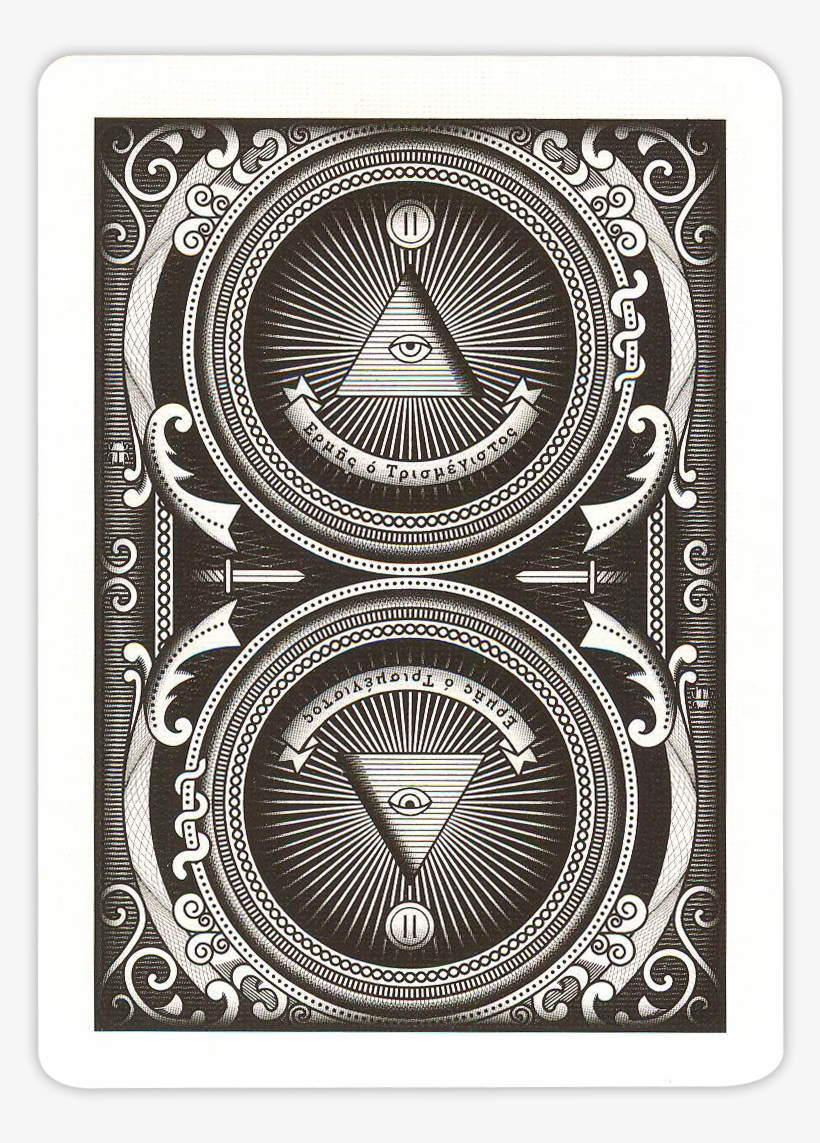
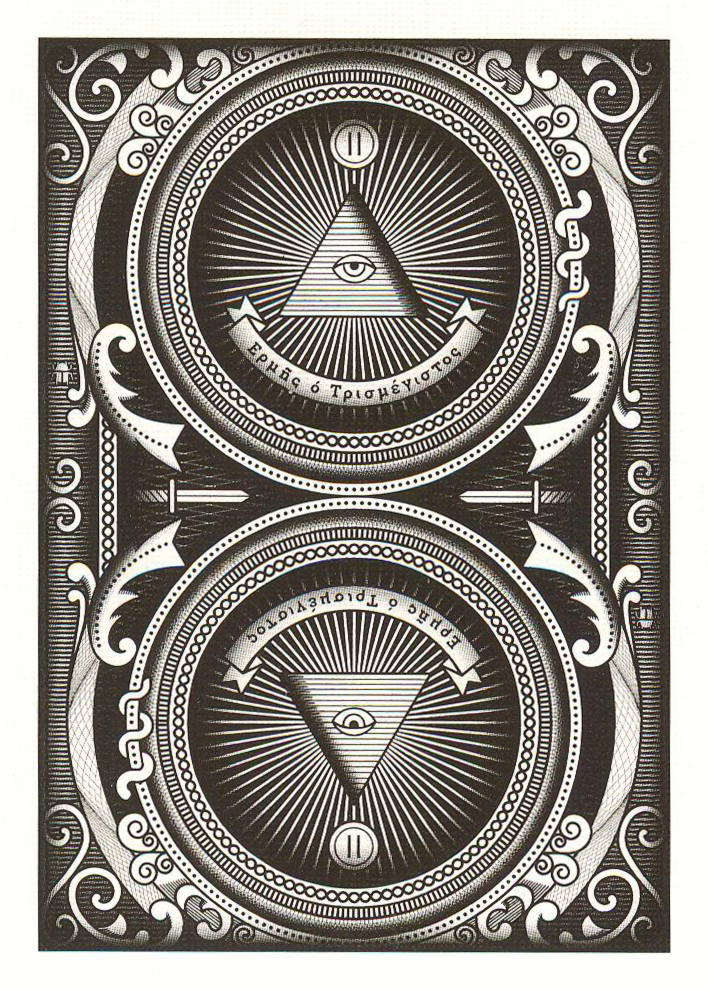
change card/bg images

diff --git a/css/style.css b/css/style.css
@@ -1,5 +1,5 @@
 body {
-  background-image: url("../images/backgrounds/blue-felt.jpg");
+  background-image: url("../images/backgrounds/black-felt.png");
   background-size: cover;
 }
 
@@ -15,9 +15,11 @@ body {
   width: 4.0em;
   height: 5.5em;
   /* Add a default background color and border. */
-  background-color: #fff;
+  background-color: rgb(242, 239, 217);
+  border-color: rgb(41, 41, 41);
+  border-style: solid;
+  border-width: 0.015em;
   border-radius: 0.20em;
-  border: 1px solid #c3c3c3;
   /* Scale and set the background settings. */
   background-repeat: no-repeat;
   background-position: center center;
@@ -47,8 +49,8 @@ body {
     box-shadow: 4px 4px 5px 0 rgba(41, 41, 41, 0.75); }
   .card.outline {
     background-image: none;
-    background-color: rgba(195, 195, 195, 0.75);
-    border: 0.05em solid rgb(18,34,99); }
+    background-color: rgba(1, 1, 1, 0); 
+    border: none; }
 
   .card.back {
     background-image: url("../images/backs/blue.svg"); }
@@ -72,12 +74,6 @@ body {
     background-color: rgba(1,1,1,0);
     border: none; }
 
-  .card.back-casino {
-    background-image: url("../images/altbacks/casino.png");
-    background-size: cover;
-    background-color: rgba(1,1,1,0);
-    border: none; }
-
   .card.back-celtic {
     background-image: url("../images/altbacks/celtic.png");
     background-size: cover;
@@ -91,7 +87,7 @@ body {
     border: none; }
 
   .card.back-elf {
-    background-image: url("../images/altbacks/elf.jpg");
+    background-image: url("../images/altbacks/elf.png");
     background-size: cover;
     background-color: rgba(1,1,1,0);
     border: none; }
@@ -126,14 +122,8 @@ body {
     background-color: rgba(1,1,1,0);
     border: none; }
 
-  .card.back-lighthouse {
-    background-image: url("../images/altbacks/lighthouse.png");
-    background-size: cover;
-    background-color: rgba(1,1,1,0);
-    border: none; }
-
   .card.back-monkey {
-    background-image: url("../images/altbacks/monkey.jpg"); 
+    background-image: url("../images/altbacks/monkey.png"); 
     background-size: cover;
     background-color: rgba(1,1,1,0);
     border: none; }
@@ -144,11 +134,24 @@ body {
     background-color: rgba(1,1,1,0);
     border: none; }
 
-  .card.back-ship {
-    background-image: url("../images/altbacks/ship.png");
+  .card.back-rabbit {
+    background-image: url("../images/altbacks/pirate.png");
     background-size: cover;
     background-color: rgba(1,1,1,0);
     border: none; }
+
+  .card.back-roger {
+    background-image: url("../images/altbacks/roger.png");
+    background-size: cover;
+    background-color: rgba(1,1,1,0);
+    border: none; }
+
+  .card.back-ship {
+    background-image: url("../images/altbacks/ship.png");
+    background-size: cover;
+    border-color: rgb(48,39,43);
+    border-style: solid;
+    border-width: 0.015em; }
 
   .card.back-silverback {
     background-image: url("../images/altbacks/silverback.png");
@@ -163,7 +166,13 @@ body {
     border: none; }
 
   .card.back-tree {
-    background-image: url("../images/altbacks/tree.jpg");
+    background-image: url("../images/altbacks/tree.png");
+    background-size: cover;
+    background-color: rgba(1,1,1,0);
+    border: none; }
+
+  .card.back-tree-black {
+    background-image: url("../images/altbacks/tree-black.png");
     background-size: cover;
     background-color: rgba(1,1,1,0);
     border: none; }

diff --git a/js/main.js b/js/main.js
@@ -48,9 +48,9 @@ function dealCards() {
         }
     }
     p1deck.classList.replace('outline', 'shadow-medium');
-    p1deck.classList.add('back-ship');
+    p1deck.classList.add('back-roger');
     p2deck.classList.replace('outline', 'shadow-medium');
-    p2deck.classList.add('back-ship');
+    p2deck.classList.add('back-roger');
     dealButton.classList.add('hidden');
     playButton.classList.remove('hidden');
 };
@@ -68,22 +68,24 @@ function playCards() {
         p2Cards.push(p2Flipped[0]);
         p2flip.classList.replace('outline', p2Flipped);
     }
-    // compareCards();
+    compareCards();
     render();
 };
 
 function compareCards() {
     if (p1Flipped[0] > p2Flipped[0]) {
         console.log(true);
-    } else {
+    } else if (p1Flipped[0] < p2Flipped[0]) {
         console.log(false);
+    } else {
+        console.log("war");
     }
 };
 
 function render() {
     // Player 1 card shading
     if (p1Cards.length === 0) {
-        p1deck.classList.replace('back-skull', 'outline');
+        p1deck.classList.replace('back-roger', 'outline');
     }
     if (p1Cards.length > 13) {
         p1deck.classList.replace('outline', 'shadow-light');
@@ -99,7 +101,7 @@ function render() {
     }
     // Player 2 card shading
     if (p2Cards.length === 0) {
-        p2deck.classList.replace('back-skull', 'outline');
+        p2deck.classList.replace('back-roger', 'outline');
     }
     if (p2Cards.length > 13) {
         p2deck.classList.replace('outline', 'shadow-light');

diff --git a/README.md b/README.md
@@ -52,10 +52,10 @@
 ***
 
 ### ***Credits***
+  
+##### Credit: Black Felt Background - [hipwallpaper.com](https://hipwallpaper.com/)
 
-##### Credit: [Blue Felt Background](https://hipwallpaper.com/view/ldaT6r)
-  
-##### Credit: [Description](url)
-  
-##### Credit: [Description](url)
+##### Credit: Elf Card Back - [Dustin Panzino, Inkwell Illustrations](https://inkwellillustrations.com)
+
+##### Credit: Pirate Card Back - [vippng.com](http://vippng.com)
 ***
